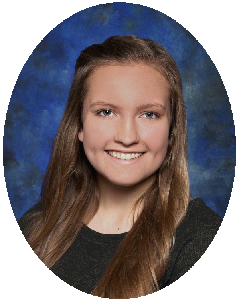
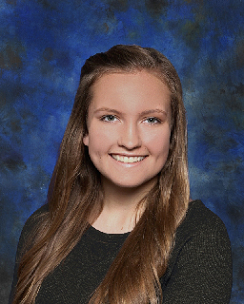
updated about section

diff --git a/index.html b/index.html
@@ -66,7 +66,7 @@
         <!-- /.container-fluid -->
     </nav>
 
-    <!-- Header -->
+    <!-- Header
     <header>
         <div class="container">
             <div class="row">
@@ -80,24 +80,18 @@
             </div>
         </div>
     </header>
+  -->
 
 
     <!-- About Section -->
     <section class="success" id="about">
         <div class="container">
-            <div class="row">
-                <div class="col-lg-12 text-center">
-                    <h2>About</h2>
-                    <hr class="star-light">
-                </div>
-            </div>
-            <div class="row">
-                <div class="col-lg-4 col-lg-offset-2">
-                    <p>Write a paragraph about who you are, where you're from, etc.</p>
-                </div>
-                <div class="col-lg-4">
-                    <p>Write a short paragraph about your hobbies and interests.</p>
-                </div>
+            <img class="img-reponsive col-lg-3 col-lg-offset-baby" src="img/profile.png" alt=""/>
+            <div class="content col-lg-8">
+                <p class="title">About Me</p>
+                <hr class="star-light">
+                <p class="col-lg-6">I'm a student at Colgate University majoring in Computer Science and Applied Math. My goal is to get a summer internship in software engineering, data science, or machine learning.</p>
+                <p class="col-lg-6">In my spare time I like teaching myself about computer science and trying to do some projects. Download a PDF of my resume here or keep exploring my website to see what I've been up to!</p>
             </div>
         </div>
     </section>
@@ -367,7 +361,7 @@
                         <h3>Around the Web</h3>
                         <ul class="list-inline">
                             <li>
-                                <a href="dscheiern@gmail.com" class="btn-social btn-outline"><i class="fa fa-fw fa-email"></i></a>
+                                <a href="mailto:dscheiern@gmail.com" class="btn-social btn-outline"><i class="fa fa-fw fa-email"></i></a>
                             </li>
                             <li>
                                 <a href="https://www.linkedin.com/in/dscheiern/" class="btn-social btn-outline"><i class="fa fa-fw fa-linkedin"></i></a>

diff --git a/vendor/bootstrap/css/bootstrap.css b/vendor/bootstrap/css/bootstrap.css
@@ -1137,7 +1137,7 @@ img {
 .thumbnail a > img,
 .carousel-inner > .item > img,
 .carousel-inner > .item > a > img {
-  display: block;
+  display: inline-block;
   max-width: 100%;
   height: auto;
 }
@@ -1305,14 +1305,37 @@ h6,
 }
 p {
   margin: 0 0 10px;
-  font-size: 10px;
+  font-size: 12px;
   margin-top: 10px;
+  text-align: center;
 }
 .lead {
   margin-bottom: 20px;
   font-size: 16px;
   font-weight: 300;
   line-height: 1.4;
+}
+.left {
+  float: left;
+  padding: 0 20px 0 0;
+}
+.content {
+  display: inline-block;
+  vertical-align: top;
+}
+.box {
+  display: inline-block;
+  vertical-align: top;
+  margin: 5px;
+}
+.title {
+  margin: 0;
+  padding: 3px 10px 3px 10px;
+}
+.title {
+  font-size: 40px;
+  font-weight: bold;
+  align: center;
 }
 @media (min-width: 768px) {
   .lead {
@@ -1601,7 +1624,7 @@ pre code {
   overflow-y: scroll;
 }
 .container {
-  padding-right: 15px;
+  padding-right: 0px;
   padding-left: 15px;
   margin-right: auto;
   margin-left: auto;
@@ -2263,6 +2286,9 @@ pre code {
   }
   .col-lg-offset-1 {
     margin-left: 8.33333333%;
+  }
+  .col-lg-offset-baby {
+    margin-left: 5%
   }
   .col-lg-offset-0 {
     margin-left: 0;

diff --git a/css/freelancer.css b/css/freelancer.css
@@ -45,7 +45,7 @@ hr.star-primary:after {
   content: "\f005";
   font-family: FontAwesome;
   display: inline-block;
-  position: relative;
+  position: center;
   top: -0.8em;
   font-size: 2em;
   padding: 0 0.25em;
@@ -188,6 +188,7 @@ section h2 {
 section.success {
   background: #0087EF;
   color: white;
+  margin-top: 75px;
 }
 @media (max-width: 767px) {
   section {
